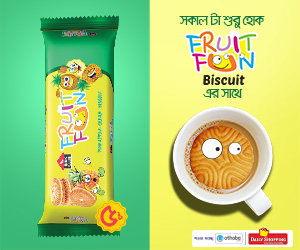
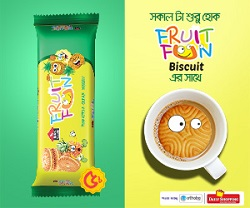
Add files via upload

diff --git a/3d-flipping/style.css b/3d-flipping/style.css
@@ -5,10 +5,10 @@ body{
 .box
 {
     position: absolute;
-    top: 0;
-    left: 0;
-    width: 300px !important;
-    height: 250px !important;
+    top: 0px;
+    left: 0px;
+    width: 250px !important;
+    height: 208px !important;
     transform-style: preserve-3d;
     animation: rotate;
     animation-duration: 10s;
@@ -18,17 +18,13 @@ body{
 
 @keyframes rotate {
     from{
-        transform: perspective(9999px) rotateY(0deg);
+        transform: perspective(500px) rotateY(0deg);
     }
     to {
-        transform: perspective(9999px) rotateY(360deg);
+        transform: perspective(500px) rotateY(360deg);
     }
 }
 
-.box:hover
-{
-    transform: perspective(500px) rotateY(180deg);
-}
 .box::before
 {
     content: '';
@@ -46,7 +42,7 @@ body{
     content: '';
     position: absolute;
     top: 0;
-    left: 300px;
+    left: 250px;
     width: 50px;
     height: 100%;
     background: #34A56F;

diff --git a/3d-flipping/index.html b/3d-flipping/index.html
@@ -5,7 +5,7 @@
     <meta http-equiv="X-UA-Compatible" content="IE=edge">
     <meta name="viewport" content="width=device-width, initial-scale=1.0">
     <title>Document</title>
-    <link rel="stylesheet" href="style.css?v=1.1">
+    <link rel="stylesheet" href="style.css?v=1.2">
 </head>
 <body>
     <div class="box">
